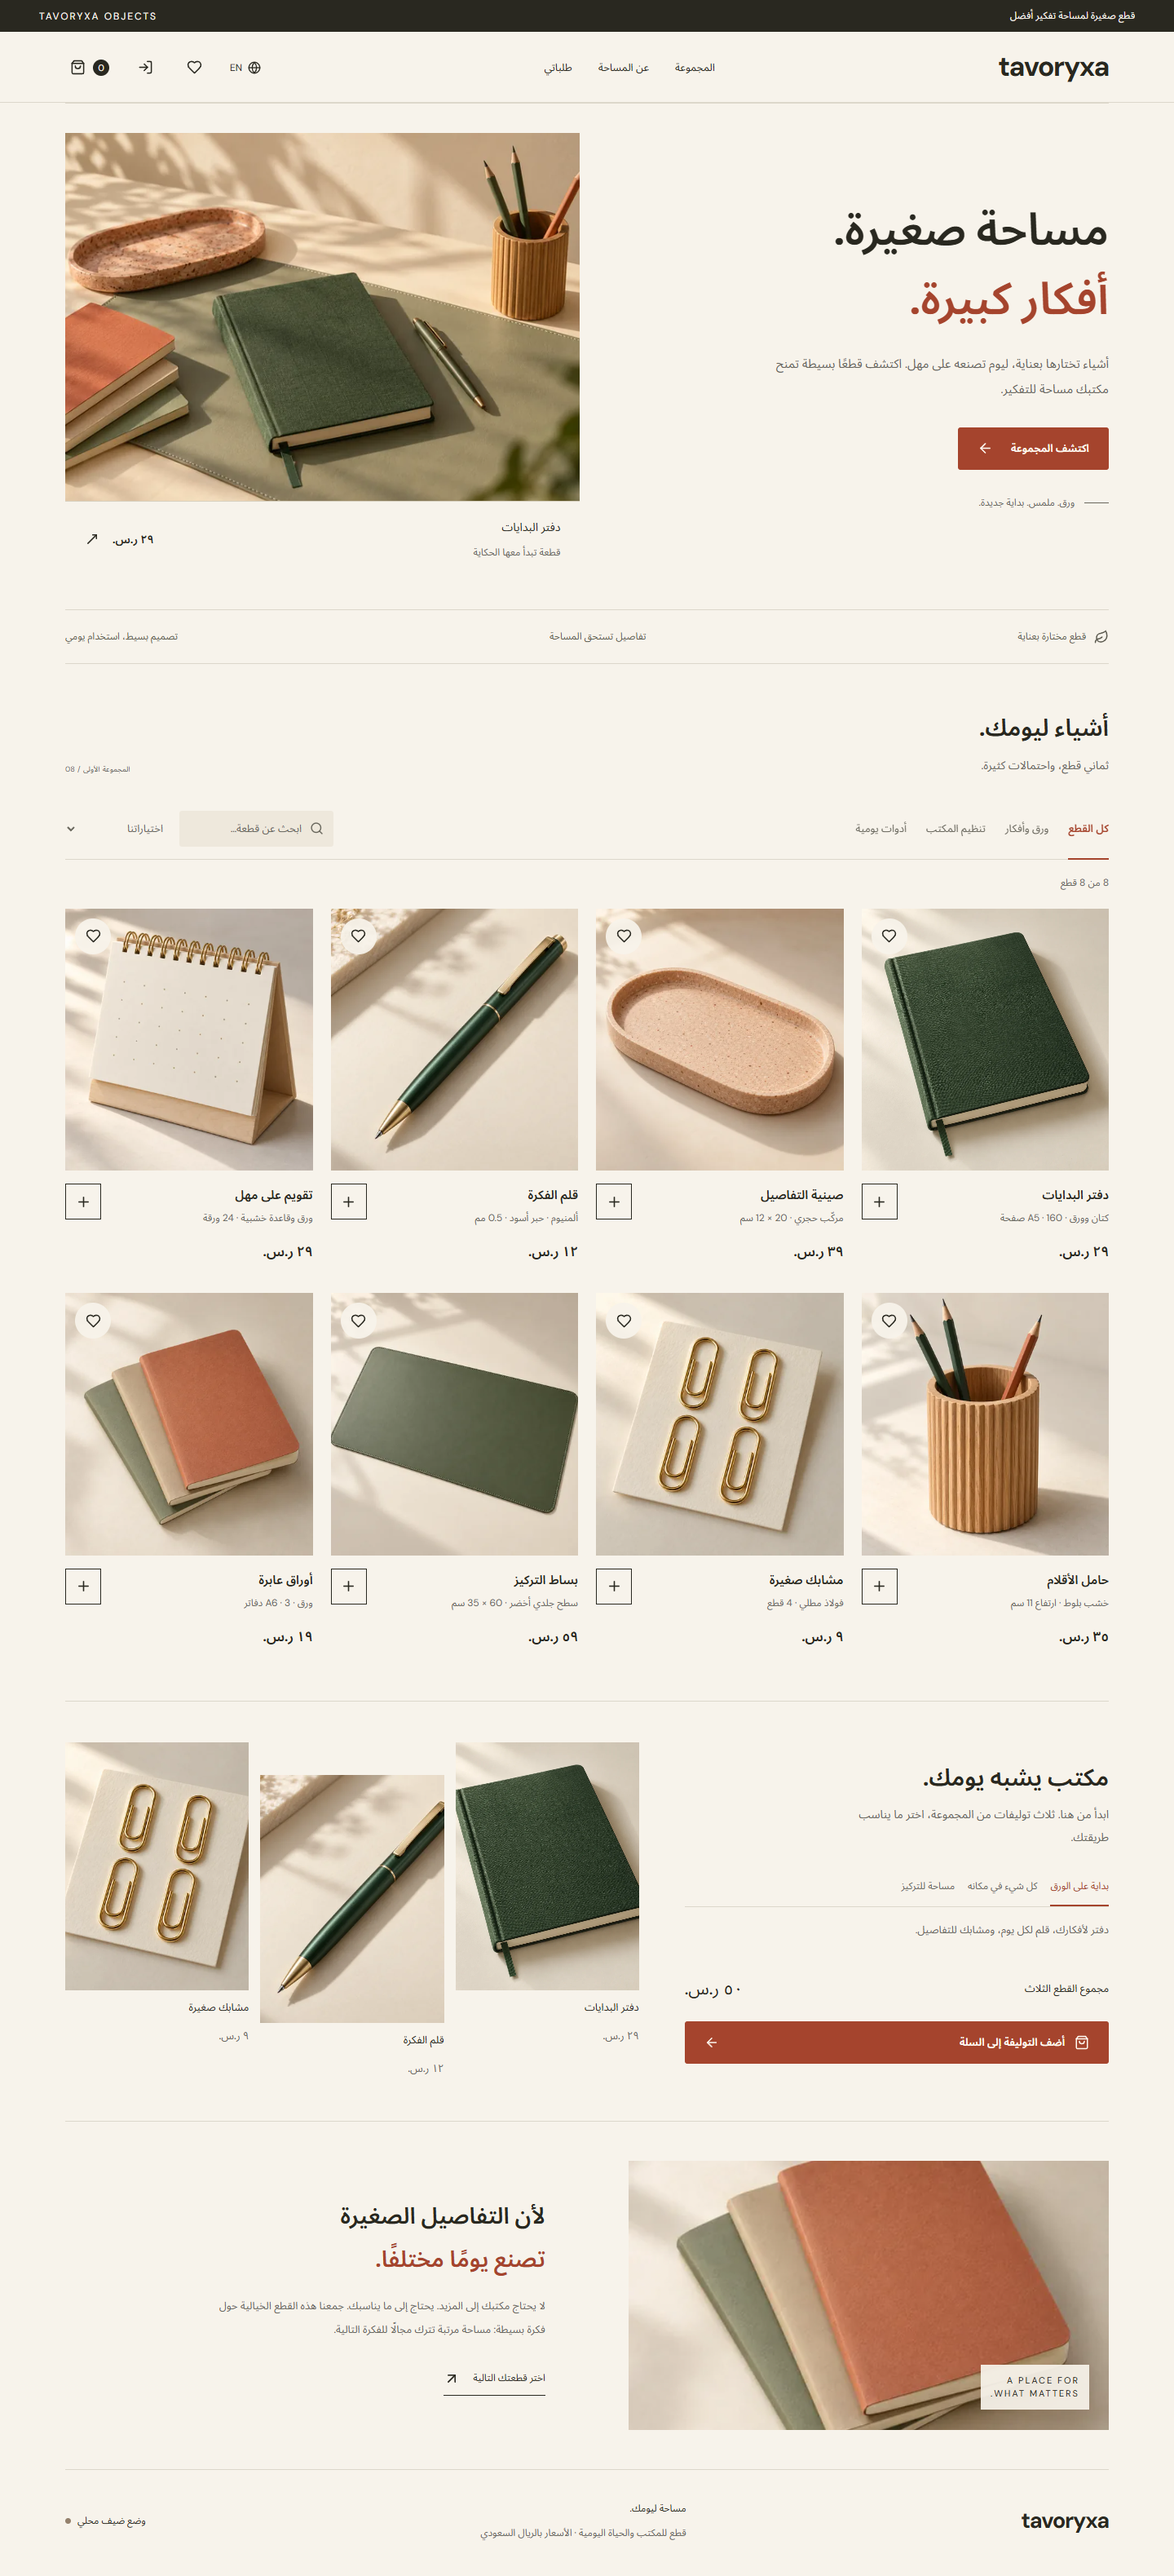
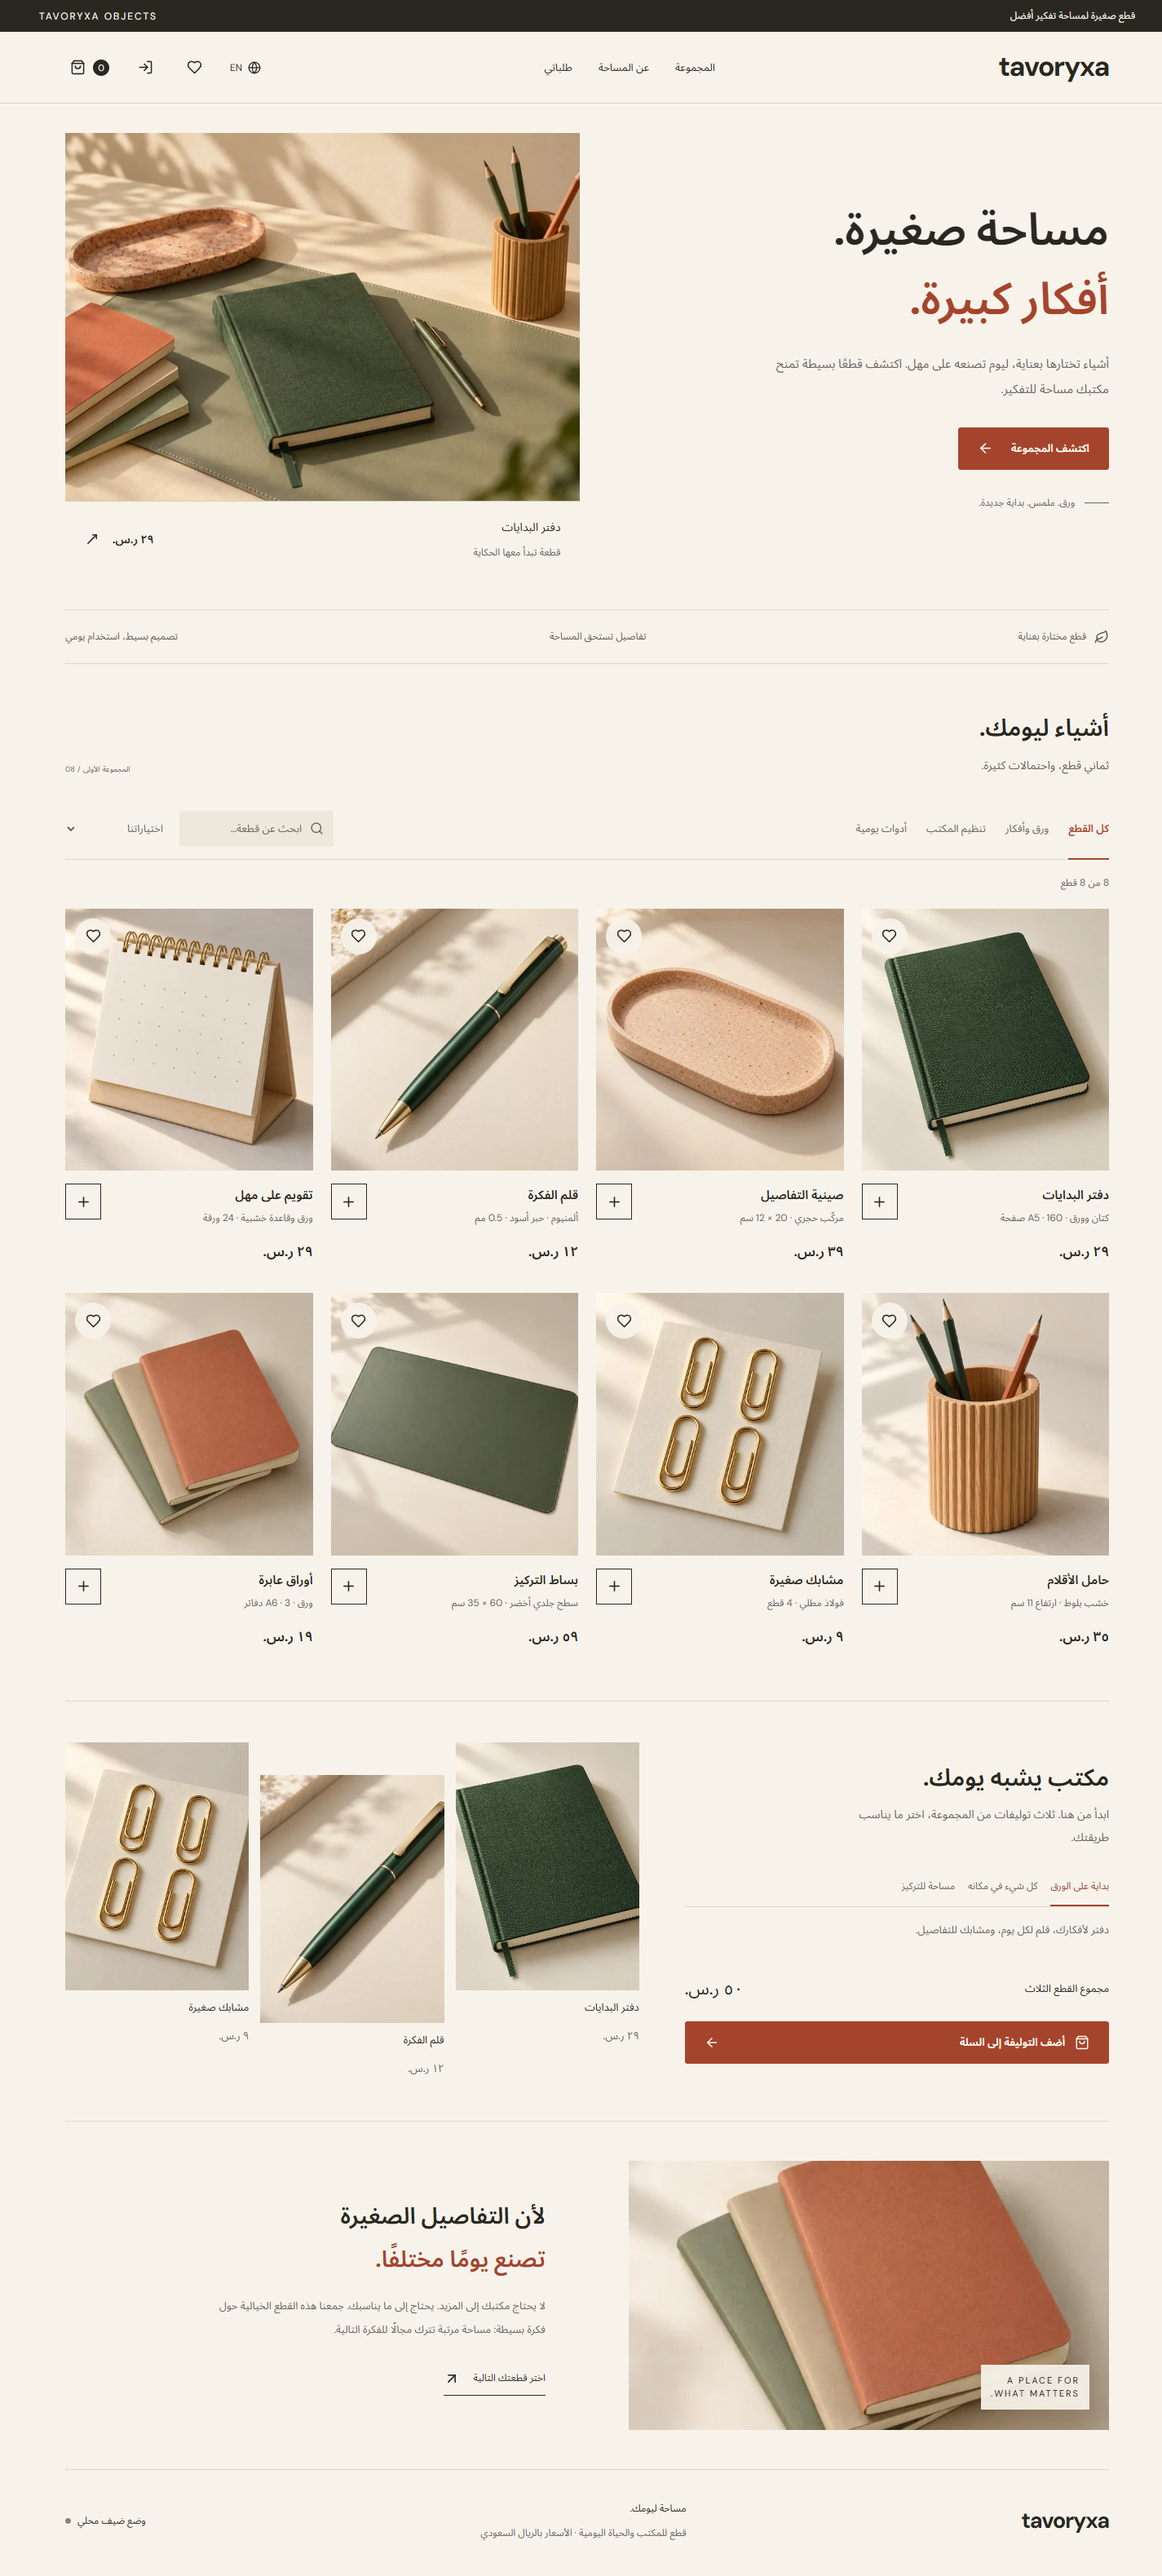
Fix header overflow with visible Windows scrollbars

diff --git a/src/refinement.css b/src/refinement.css
@@ -11,6 +11,8 @@ html {
   scrollbar-color: #bdb5a4 var(--paper);
 }
 .header {
+  width: 100%;
+  padding-inline: max(48px, calc((100% - 1280px) / 2));
   position: sticky;
   top: 0;
   z-index: 10;
@@ -18,15 +20,7 @@ html {
   min-height: 88px;
 }
 .header::before {
-  content: '';
-  position: absolute;
-  inset-block: 0;
-  left: 50%;
-  width: 100vw;
-  transform: translateX(-50%);
-  background: var(--paper);
-  z-index: -1;
-  border-bottom: 1px solid var(--line);
+  display: none;
 }
 .header nav a,
 .header nav button {
@@ -505,6 +499,9 @@ html[lang='en'] .desk-edit h2 {
   }
 }
 @media (max-width: 1100px) {
+  .header {
+    padding-inline: 28px;
+  }
   .desk-edit {
     gap: 32px;
     grid-template-columns: 1fr 1fr;
@@ -529,6 +526,7 @@ html[lang='en'] .desk-edit h2 {
     gap: 0 8px;
     min-height: 0;
     padding-top: 12px;
+    padding-inline: 18px;
   }
   .header nav {
     display: flex;

diff --git a/CHANGELOG.md b/CHANGELOG.md
@@ -1,3 +1,7 @@
+### Windows scrollbar follow-up / متابعة شريط تمرير Windows
+
+Final live-browser review caught an 8px overflow that the headless default hidden-scrollbar checks missed. Replaced the 100vw header pseudo-element with a normal full-width padded header. The regression now keeps native scrollbars visible and compares scrollWidth with clientWidth, passing all32 cases. / كشف المتصفح الفعلي تمددًا بمقدار8بكسل لم يظهر عند إخفاء شريط التمرير؛ أزيلت خلفية100vw المسببة له، وأصبح الفحص يُظهر شريط Windows ويقارن بعرض المحتوى الفعلي، ونجحت الحالات32.
+
 ## 2026-10-25 — Quantity, pricing and motion / الكمية والأسعار والحركة
 
 <div dir="rtl" align="right">الوكيل الرئيسي بسّط الكمية إلى رقم مع زري الزيادة والنقصان، وأزال إطار الرقم مع إبقاء مؤشر لوحة مفاتيح تحته. خُفضت الأسعار التقديرية ووُحدت بين المصدر وSupabase دون تغيير الطلب القديم. أضاف توليفات المكتب وتنقل الجوال وصغّر معرض الصور وحسّن البحث ورأس الصفحة وأدخل حركة محدودة تحترم تقليل الحركة. اكتشف الفحص تمددًا عند820بكسل بسبب خلفية رأس الصفحة وأُصلح. راجع وكيل Qirvexa المصدر والصور باللغتين دون موانع نشر في نطاق مراجعته.</div>

diff --git a/REVIEW.md b/REVIEW.md
@@ -1,3 +1,7 @@
+### Windows scrollbar follow-up / متابعة شريط تمرير Windows
+
+Final live-browser review caught an 8px overflow that the headless default hidden-scrollbar checks missed. Replaced the 100vw header pseudo-element with a normal full-width padded header. The regression now keeps native scrollbars visible and compares scrollWidth with clientWidth, passing all32 cases. / كشف المتصفح الفعلي تمددًا بمقدار8بكسل لم يظهر عند إخفاء شريط التمرير؛ أزيلت خلفية100vw المسببة له، وأصبح الفحص يُظهر شريط Windows ويقارن بعرض المحتوى الفعلي، ونجحت الحالات32.
+
 ## 2026-10-25 — Quantity, pricing and motion / الكمية والأسعار والحركة
 
 <div dir="rtl" align="right">الوكيل الرئيسي بسّط الكمية إلى رقم مع زري الزيادة والنقصان، وأزال إطار الرقم مع إبقاء مؤشر لوحة مفاتيح تحته. خُفضت الأسعار التقديرية ووُحدت بين المصدر وSupabase دون تغيير الطلب القديم. أضاف توليفات المكتب وتنقل الجوال وصغّر معرض الصور وحسّن البحث ورأس الصفحة وأدخل حركة محدودة تحترم تقليل الحركة. اكتشف الفحص تمددًا عند820بكسل بسبب خلفية رأس الصفحة وأُصلح. راجع وكيل Qirvexa المصدر والصور باللغتين دون موانع نشر في نطاق مراجعته.</div>
